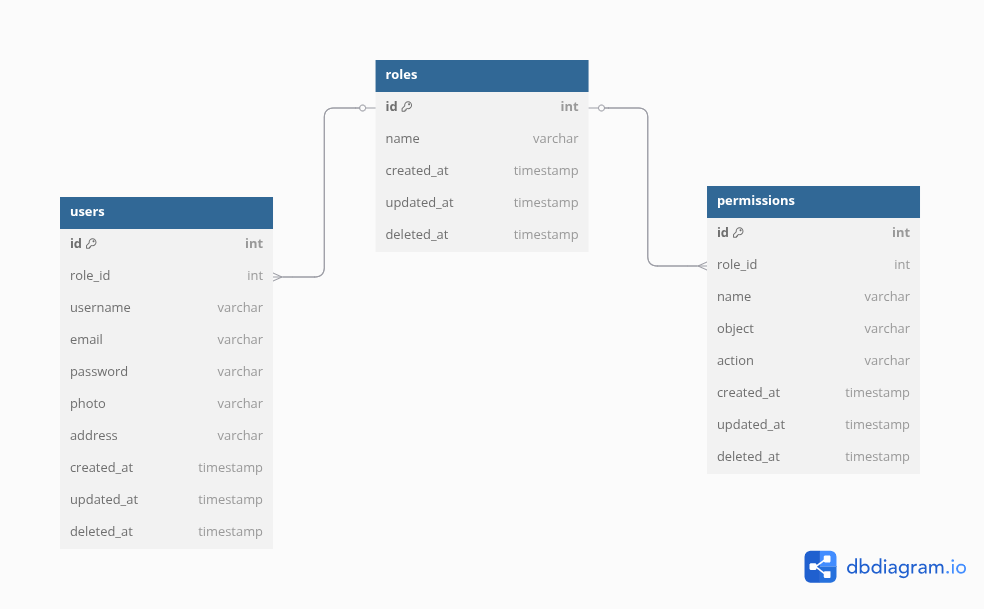
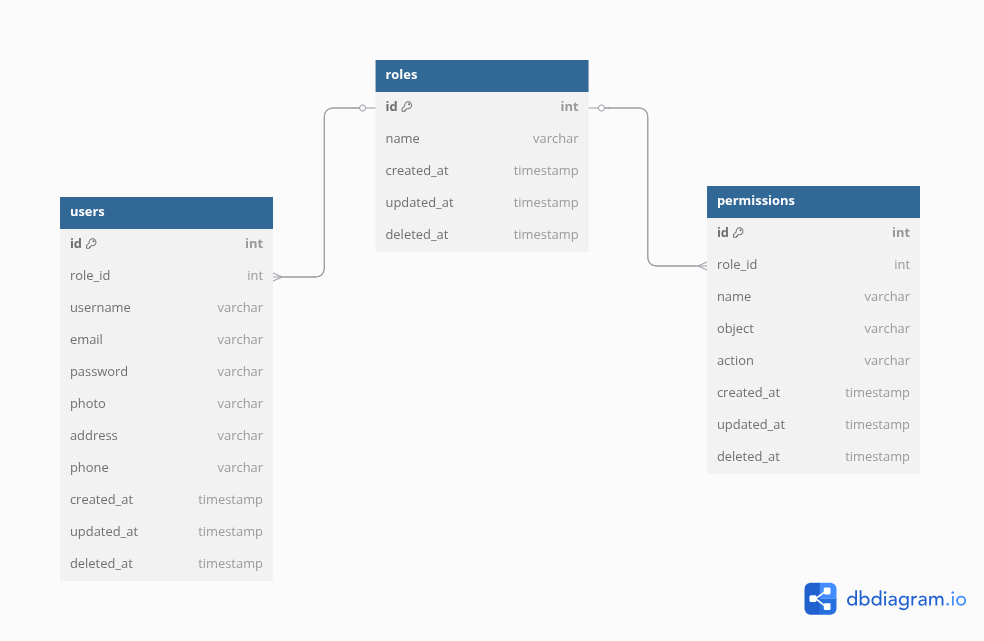
(feat:auth): add auth and users resources

diff --git a/src/main/java/com/mega/auth/module/auth/service/AuthServiceImpl.java b/src/main/java/com/mega/auth/module/auth/service/AuthServiceImpl.java
@@ -1,0 +1,47 @@
+package com.mega.auth.module.auth.service;
+
+import com.mega.auth.module.role.entity.Role;
+import com.mega.auth.module.role.repository.RoleRepository;
+import com.mega.auth.module.user.dto.LoginUserResponseDto;
+import com.mega.auth.module.user.dto.RegisterUserDto;
+import com.mega.auth.module.user.entity.User;
+import com.mega.auth.module.user.repository.UserRepository;
+import com.mega.auth.utils.exception.ResourceNotFound;
+import com.mega.auth.utils.exception.UserAlreadyExist;
+import lombok.RequiredArgsConstructor;
+import org.springframework.security.crypto.bcrypt.BCryptPasswordEncoder;
+import org.springframework.security.crypto.password.PasswordEncoder;
+import org.springframework.stereotype.Service;
+
+@Service
+@RequiredArgsConstructor
+public class AuthServiceImpl implements AuthService {
+    private final UserRepository userRepository;
+    private final RoleRepository roleRepository;
+    private final PasswordEncoder passwordEncoder = new BCryptPasswordEncoder();
+
+    @Override
+    public User registerUser(RegisterUserDto registerUserDto) {
+        if (userRepository.findByUsername(registerUserDto.getUsername()).isPresent()) {
+            throw new UserAlreadyExist("User already exist");
+        }
+
+        Role role = roleRepository.findById(registerUserDto.getRoleId())
+                .orElseThrow(() -> new ResourceNotFound("Role not found :" + registerUserDto.getRoleId()));
+
+        User user = new User();
+        user.setUsername(registerUserDto.getUsername());
+        user.setPassword(passwordEncoder.encode(registerUserDto.getPassword()));
+        user.setEmail(registerUserDto.getEmail());
+        user.setPhone(registerUserDto.getPhone());
+        user.setAddress(registerUserDto.getAddress());
+        user.setPhoto(registerUserDto.getPhoto());
+        user.setRole(role);
+        return userRepository.save(user);
+    }
+
+    @Override
+    public LoginUserResponseDto loginUser(String username, String password) {
+        return null;
+    }
+}

diff --git a/src/main/java/com/mega/auth/module/user/presenter/UserPresenter.java b/src/main/java/com/mega/auth/module/user/presenter/UserPresenter.java
@@ -1,0 +1,34 @@
+package com.mega.auth.module.user.presenter;
+
+import com.mega.auth.module.user.service.UserServiceImpl;
+import lombok.RequiredArgsConstructor;
+import org.springframework.web.bind.annotation.GetMapping;
+import org.springframework.web.bind.annotation.PathVariable;
+import org.springframework.web.bind.annotation.RequestMapping;
+import org.springframework.web.bind.annotation.RestController;
+
+import java.util.HashMap;
+import java.util.Map;
+
+@RestController
+@RequestMapping("/api")
+@RequiredArgsConstructor
+public class UserPresenter {
+    private final UserServiceImpl userService;
+
+    @GetMapping("/users")
+    public Map<String, Object> getAllUsers() {
+        Map<String, Object> response = new HashMap<>();
+        response.put("status", "success");
+        response.put("data", userService.findAllActiveUsers());
+        return response;
+    }
+
+    @GetMapping("/users/{id}")
+    public Map<String, Object> getUserById(@PathVariable Long id) {
+        Map<String, Object> response = new HashMap<>();
+        response.put("status", "success");
+        response.put("data", userService.findUserById(id));
+        return response;
+    }
+}

diff --git a/src/main/java/com/mega/auth/module/user/entity/User.java b/src/main/java/com/mega/auth/module/user/entity/User.java
@@ -1,0 +1,44 @@
+package com.mega.auth.module.user.entity;
+
+import com.mega.auth.module.role.entity.Role;
+import com.mega.auth.utils.auditing.Auditing;
+import jakarta.persistence.*;
+import jakarta.validation.constraints.Pattern;
+import jakarta.validation.constraints.Size;
+import lombok.Data;
+
+@Entity
+@Table(name = "users")
+@Data
+public class User extends Auditing {
+    @Id
+    @GeneratedValue(strategy = GenerationType.IDENTITY)
+    private Long id;
+
+    @Column(name = "username")
+    private String username;
+
+    @Column(name = "password")
+    @Size(min = 8, message = "Password must be at least 8 characters long")
+    @Pattern(
+            regexp = "^(?=.*[!@#$%^&*(),.?\":{}|<>]).*$",
+            message = "Password must contain at least one special character"
+    )
+    private String password;
+
+    @Column(name = "email")
+    private String email;
+
+    @Column(name = "phone")
+    private String phone;
+
+    @Column(name = "address")
+    private String address;
+
+    @Column(name = "photo")
+    private String photo;
+
+    @ManyToOne
+    @JoinColumn(name = "role_id", nullable = false)
+    private Role role;
+}

diff --git a/src/main/java/com/mega/auth/configuration/SecurityConfiguration.java b/src/main/java/com/mega/auth/configuration/SecurityConfiguration.java
@@ -1,0 +1,26 @@
+package com.mega.auth.configuration;
+
+import org.springframework.context.annotation.Bean;
+import org.springframework.context.annotation.Configuration;
+import org.springframework.security.config.annotation.web.builders.HttpSecurity;
+import org.springframework.security.config.annotation.web.configuration.EnableWebSecurity;
+import org.springframework.security.config.http.SessionCreationPolicy;
+import org.springframework.security.web.SecurityFilterChain;
+import org.springframework.security.web.authentication.UsernamePasswordAuthenticationFilter;
+
+@Configuration
+@EnableWebSecurity
+public class SecurityConfiguration {
+    @Bean
+    public SecurityFilterChain securityFilterChain(HttpSecurity http) throws Exception {
+        http.csrf().disable()
+                .authorizeHttpRequests()
+                .requestMatchers("/api/auth/login", "/api/auth/register", "/api/users").permitAll()
+                .anyRequest().authenticated()
+                .and()
+                .sessionManagement().sessionCreationPolicy(SessionCreationPolicy.STATELESS);
+
+        return http.build();
+    }
+
+}

diff --git a/src/main/java/com/mega/auth/module/auth/presenter/AuthPresenter.java b/src/main/java/com/mega/auth/module/auth/presenter/AuthPresenter.java
@@ -1,0 +1,28 @@
+package com.mega.auth.module.auth.presenter;
+
+import com.mega.auth.module.auth.service.AuthServiceImpl;
+import com.mega.auth.module.user.dto.RegisterUserDto;
+import jakarta.validation.Valid;
+import lombok.RequiredArgsConstructor;
+import org.springframework.web.bind.annotation.PostMapping;
+import org.springframework.web.bind.annotation.RequestBody;
+import org.springframework.web.bind.annotation.RequestMapping;
+import org.springframework.web.bind.annotation.RestController;
+
+import java.util.HashMap;
+import java.util.Map;
+
+@RestController
+@RequestMapping("/api/auth")
+@RequiredArgsConstructor
+public class AuthPresenter {
+    private final AuthServiceImpl authService;
+
+    @PostMapping("/register")
+    public Map<String, Object> registerUser(@Valid @RequestBody RegisterUserDto registerUserDto) {
+        Map<String, Object> response = new HashMap<>();
+        response.put("status", "success");
+        response.put("data", authService.registerUser(registerUserDto));
+        return response;
+    }
+}

diff --git a/src/main/java/com/mega/auth/module/user/service/UserServiceImpl.java b/src/main/java/com/mega/auth/module/user/service/UserServiceImpl.java
@@ -1,0 +1,26 @@
+package com.mega.auth.module.user.service;
+
+import com.mega.auth.module.user.entity.User;
+import com.mega.auth.module.user.repository.UserRepository;
+import com.mega.auth.utils.exception.ResourceNotFound;
+import lombok.RequiredArgsConstructor;
+import org.springframework.stereotype.Service;
+
+import java.util.List;
+
+@Service
+@RequiredArgsConstructor
+public class UserServiceImpl implements UserService {
+    private final UserRepository userRepository;
+
+    @Override
+    public List<User> findAllActiveUsers() {
+        return userRepository.findAllActiveUsers();
+    }
+
+    @Override
+    public User findUserById(Long id) {
+        return userRepository.findById(id)
+                .orElseThrow(() -> new ResourceNotFound("User not found :" + id));
+    }
+}

diff --git a/src/main/java/com/mega/auth/module/role/entity/Role.java b/src/main/java/com/mega/auth/module/role/entity/Role.java
@@ -1,6 +1,7 @@
 package com.mega.auth.module.role.entity;
 
 import com.mega.auth.module.permission.entity.Permission;
+import com.mega.auth.module.user.entity.User;
 import com.mega.auth.utils.auditing.Auditing;
 import jakarta.persistence.*;
 import lombok.Data;
@@ -18,6 +19,9 @@ public class Role extends Auditing {
     @Column(name = "name")
     private String name;
 
-    @OneToMany(mappedBy = "role")
+    @OneToMany(mappedBy = "role", fetch = FetchType.LAZY)
     List<Permission> permissions;
+
+    @OneToMany(mappedBy = "role", fetch = FetchType.LAZY)
+    List<User> users;
 }

diff --git a/src/main/java/com/mega/auth/module/user/repository/UserRepository.java b/src/main/java/com/mega/auth/module/user/repository/UserRepository.java
@@ -1,0 +1,16 @@
+package com.mega.auth.module.user.repository;
+
+import com.mega.auth.module.user.entity.User;
+import org.springframework.data.jpa.repository.JpaRepository;
+import org.springframework.data.jpa.repository.Query;
+import org.springframework.stereotype.Repository;
+
+import java.util.List;
+import java.util.Optional;
+
+@Repository
+public interface UserRepository extends JpaRepository<User, Long> {
+    @Query("SELECT u FROM User u WHERE u.deletedAt IS NULL")
+    List<User> findAllActiveUsers();
+    Optional<User> findByUsername(String username);
+}

diff --git a/src/main/java/com/mega/auth/module/auth/service/AuthService.java b/src/main/java/com/mega/auth/module/auth/service/AuthService.java
@@ -1,0 +1,10 @@
+package com.mega.auth.module.auth.service;
+
+import com.mega.auth.module.user.dto.LoginUserResponseDto;
+import com.mega.auth.module.user.dto.RegisterUserDto;
+import com.mega.auth.module.user.entity.User;
+
+public interface AuthService {
+    User registerUser(RegisterUserDto registerUserDto);
+    LoginUserResponseDto loginUser(String username, String password);
+}

diff --git a/src/main/java/com/mega/auth/utils/exception/UserAlreadyExist.java b/src/main/java/com/mega/auth/utils/exception/UserAlreadyExist.java
@@ -1,0 +1,11 @@
+package com.mega.auth.utils.exception;
+
+import org.springframework.http.HttpStatus;
+import org.springframework.web.bind.annotation.ResponseStatus;
+
+@ResponseStatus(HttpStatus.BAD_REQUEST)
+public class UserAlreadyExist extends RuntimeException {
+    public UserAlreadyExist(String message) {
+        super(message);
+    }
+}

diff --git a/src/main/java/com/mega/auth/module/user/dto/RegisterUserDto.java b/src/main/java/com/mega/auth/module/user/dto/RegisterUserDto.java
@@ -1,0 +1,14 @@
+package com.mega.auth.module.user.dto;
+
+import lombok.Data;
+
+@Data
+public class RegisterUserDto {
+    private Long roleId;
+    private String username;
+    private String password;
+    private String email;
+    private String phone;
+    private String address;
+    private String photo;
+}

diff --git a/src/main/java/com/mega/auth/module/user/dto/LoginUserResponseDto.java b/src/main/java/com/mega/auth/module/user/dto/LoginUserResponseDto.java
@@ -1,0 +1,13 @@
+package com.mega.auth.module.user.dto;
+
+import lombok.Data;
+
+@Data
+public class LoginUserResponseDto {
+    private Long id;
+    private String username;
+    private String email;
+    private String photo;
+    private String token;
+    private String address;
+}
